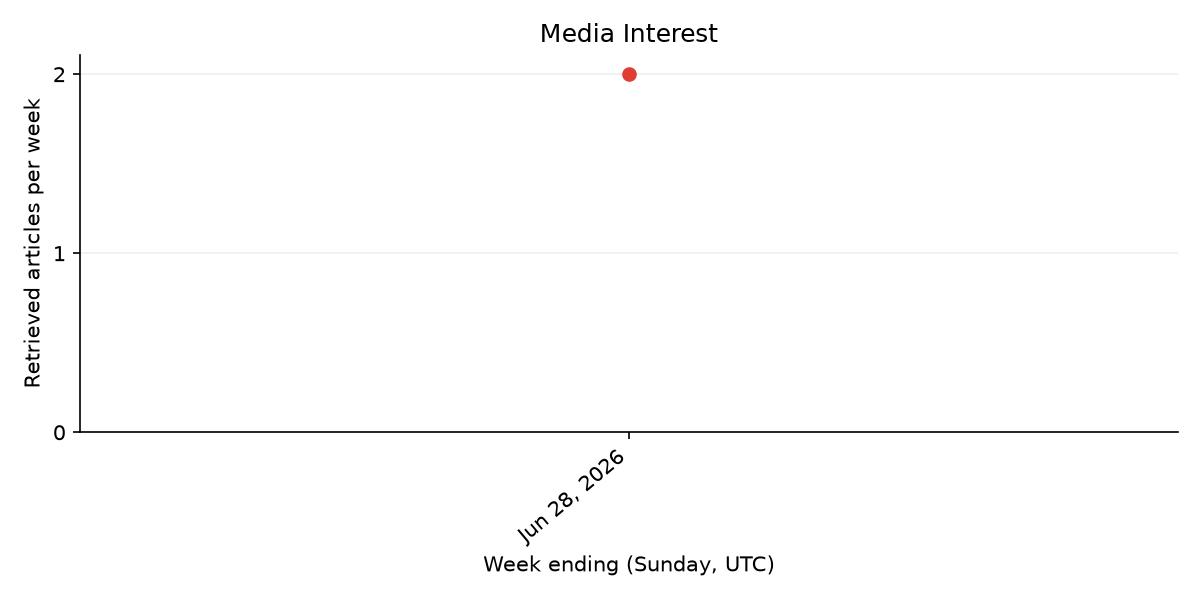
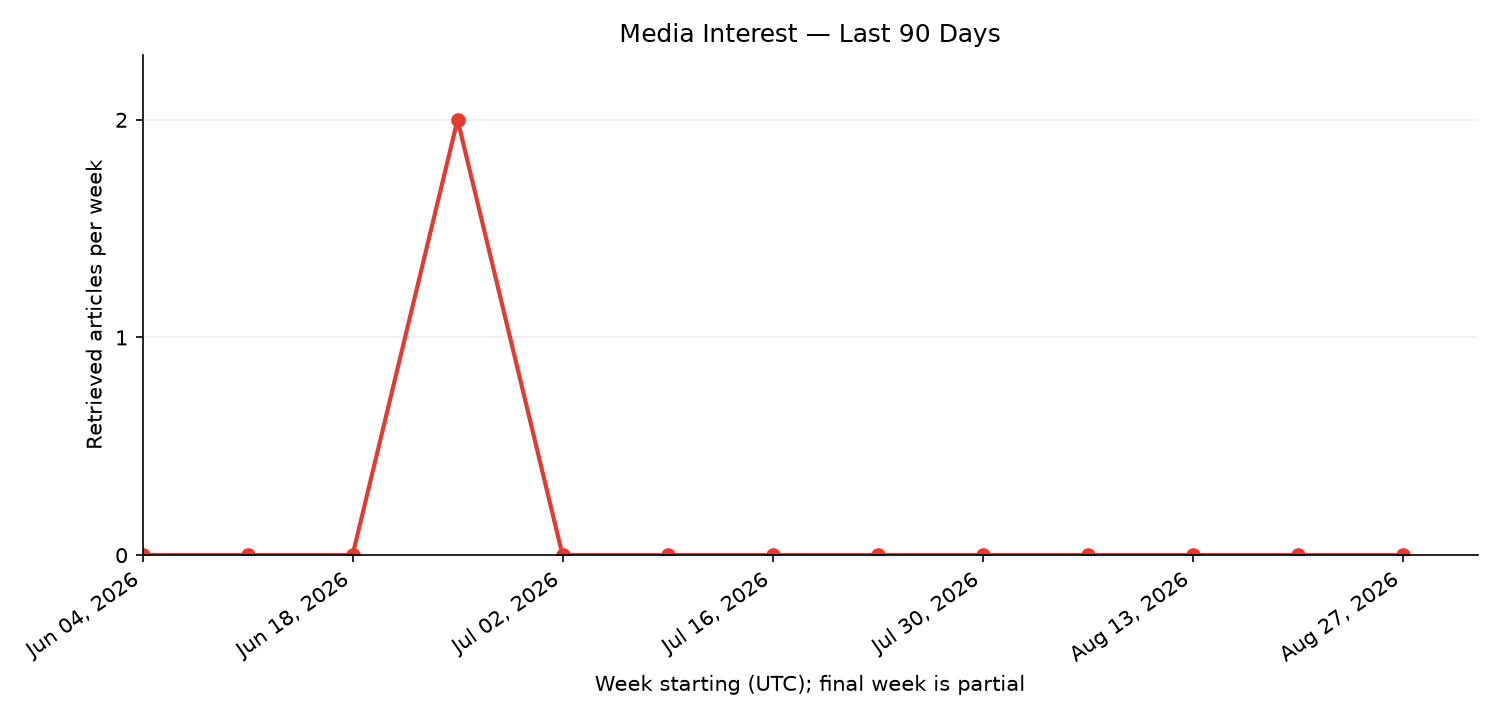
Automated daily update

diff --git a/index.html b/index.html
@@ -48,11 +48,11 @@
 </style>
 </head>
 <body>
-  <img src="park-photo.jpg" alt="The Golf Course on East Potomac Park during cherry blossom season" style="width:100%; max-height:320px; object-fit:cover; border-radius:8px; margin-bottom:6px;">
-  <p style="font-family: Arial, sans-serif; font-size: 0.72rem; color: #4A4A4A; margin: 0 0 28px;">Photo: National Park Service (public domain)</p>
+  <img src="park-photo.jpg" alt="Cherry blossoms lining the road at East Potomac Park" style="width:100%; max-height:320px; object-fit:cover; border-radius:8px; margin-bottom:6px;">
+  <p style="font-family: Arial, sans-serif; font-size: 0.72rem; color: #4A4A4A; margin: 0 0 28px;">Photo: NPS / NCR Photo Library (public domain)</p>
 
   <h1>East Potomac Park &mdash; Case Tracker</h1>
-  <p class="updated">Automatically updated daily. Last updated: September 01, 2026 at 20:40 UTC</p>
+  <p class="updated">Automatically updated daily. Last updated: September 01, 2026 at 20:53 UTC</p>
 
   <div style="display:flex; gap:10px; flex-wrap:wrap; font-family: Arial, sans-serif; margin-bottom: 24px;">
     <a href="write-to-congress.html" style="display:inline-block; background:#2C5F4F; color:#fff; text-decoration:none; padding:10px 18px; border-radius:4px; font-weight:bold;">
@@ -161,35 +161,35 @@
     <summary>Full Docket &mdash; DC Preservation League v. Department of Interior (1:26-cv-00477) (165 entries)</summary>
     <div class="table-scroll"><table>
       <tr><th>Date Filed</th><th>Entry #</th><th>Description</th></tr>
-      <tr><td>2026-08-31</td><td>nan</td><td></td></tr>
-<tr><td>2026-08-31</td><td>nan</td><td></td></tr>
+      <tr><td>2026-08-31</td><td>nan</td><td>nan</td></tr>
+<tr><td>2026-08-31</td><td>nan</td><td>nan</td></tr>
 <tr><td>2026-08-31</td><td>nan</td><td>MINUTE ORDER. In light of the parties&#x27; 66 Proposed Briefing Schedule, the Court ORDERS the parties to appear for a status conference on September 3, 2026, at 2:00 pm. If the parties are unable to attend at that time, they shall propose alternative times on September 3 or 4 for the Court&#x27;s consideration. Signed by Judge Ana C. Reyes on 8/31/2026. (lcacr3)</td></tr>
 <tr><td>2026-08-27</td><td>66.0</td><td>PROPOSED BRIEFING SCHEDULE (Joint Filing) by DC PRESERVATION LEAGUE, ALEX DICKSON, DAVE ROBERTS. (Bardwell, Will) (Entered: 08/27/2026)</td></tr>
 <tr><td>2026-08-21</td><td>nan</td><td>Set/Reset Deadlines/Hearings: Joint Proposed Briefing Schedule due by 8/27/2026. (zcdw)</td></tr>
-<tr><td>2026-08-21</td><td>nan</td><td></td></tr>
+<tr><td>2026-08-21</td><td>nan</td><td>nan</td></tr>
 <tr><td>2026-08-20</td><td>nan</td><td>MINUTE ORDER granting 65 Joint Motion for Extension of Time. The Court ORDERS the Parties to file their joint proposed briefing schedule on or before August 27, 2026. Signed by Judge Ana C. Reyes on 8/20/2026. (lcacr3)</td></tr>
 <tr><td>2026-08-20</td><td>65.0</td><td>Joint MOTION for Extension of Time to File Proposed Briefing Schedule by DC PRESERVATION LEAGUE, ALEX DICKSON, DAVE ROBERTS. (Attachments: # 1 Text of Proposed Order)(Samburg, Mark) (Entered: 08/20/2026)</td></tr>
-<tr><td>2026-08-20</td><td>nan</td><td></td></tr>
+<tr><td>2026-08-20</td><td>nan</td><td>nan</td></tr>
 <tr><td>2026-08-18</td><td>64.0</td><td>NOTICE of Intent to File Amended and Supplemental Complaint by DC PRESERVATION LEAGUE, ALEX DICKSON, DAVE ROBERTS (Bardwell, Will) (Entered: 08/18/2026)</td></tr>
 <tr><td>2026-08-14</td><td>nan</td><td>Set/Reset Deadlines/Hearings: Plaintiff&#x27;s Notice of Intent due by 8/18/2026. (zcdw)</td></tr>
-<tr><td>2026-08-14</td><td>nan</td><td></td></tr>
+<tr><td>2026-08-14</td><td>nan</td><td>nan</td></tr>
 <tr><td>2026-08-13</td><td>nan</td><td>MINUTE ORDER. Substantial developments have occurred since Plaintiffs filed their 1 Complaint and 8 Motion to Stay, and the Court finds that the operative complaint is outdated. As such, the pending 34 Motion to Dismiss addresses deficiencies that may not appear from an amended complaint. In the interest of judicial economy and efficient case management, Plaintiffs should consider whether to file an amended complaint. If they do not, and if the Court grants the pending 34 Motion to Dismiss, it will do so with prejudice. Plaintiffs shall advise the Court, on or before August 18, 2026, on whether they intend to amend their filings. If so, the Court ORDERS the parties to meet and confer and jointly file a proposed briefing schedule to govern further proceedings. The parties shall file their proposed briefing schedule on or before August 21, 2026. Signed by Judge Ana C. Reyes on 8/13/2026. (lcacr3)</td></tr>
-<tr><td>2026-08-13</td><td>nan</td><td></td></tr>
-<tr><td>2026-08-13</td><td>nan</td><td></td></tr>
-<tr><td>2026-08-10</td><td>nan</td><td></td></tr>
+<tr><td>2026-08-13</td><td>nan</td><td>nan</td></tr>
+<tr><td>2026-08-13</td><td>nan</td><td>nan</td></tr>
+<tr><td>2026-08-10</td><td>nan</td><td>nan</td></tr>
 <tr><td>2026-07-17</td><td>63.0</td><td>RESPONSE TO ORDER OF THE COURT Defendants&#x27; Response to the Court&#x27;s July 6, 2026, Minute Order by JESSICA BOWRON, DOUG BURGUM, DEPARTMENT OF INTERIOR, NATIONAL PARK SERVICE re Order,,,,, (Robertson, Michael) Modified event on 7/20/2026 (znmw). (Entered: 07/17/2026)</td></tr>
 <tr><td>2026-07-15</td><td>62.0</td><td>TRANSCRIPT OF PROCEEDINGS before Judge Ana C. Reyes held on 5/4/2026; Page Numbers: 1-50. Date of Issuance:7/15/2026. Court Reporter Christine T. Asif, Telephone number 202-354-3247, Transcripts may be ordered by submitting the Transcript Order FormFor the first 90 days after this filing date, the transcript may be viewed at the courthouse at a public terminal or purchased from the court reporter referenced above. After 90 days, the transcript may be accessed via PACER. Other transcript formats, (multi-page, condensed, CD or ASCII) may be purchased from the court reporter.NOTICE RE REDACTION OF TRANSCRIPTS: The parties have twenty-one days to file with the court and the court reporter any request to redact personal identifiers from this transcript. If no such requests are filed, the transcript will be made available to the public via PACER without redaction after 90 days. The policy, which includes the five personal identifiers specifically covered, is located on our website at www.dcd.uscourts.gov. Redaction Request due 8/5/2026. Redacted Transcript Deadline set for 8/15/2026. Release of Transcript Restriction set for 10/13/2026.(Asif, Christine) (Entered: 07/15/2026)</td></tr>
 <tr><td>2026-07-08</td><td>nan</td><td>Set/Reset Deadlines/Hearings: Response to Court&#x27;s Order due by 7/17/2026. (zcdw)</td></tr>
-<tr><td>2026-07-08</td><td>nan</td><td></td></tr>
+<tr><td>2026-07-08</td><td>nan</td><td>nan</td></tr>
 <tr><td>2026-07-08</td><td>60.0</td><td>TRANSCRIPT OF MOTION HEARING before Judge Ana C. Reyes held on July 2, 2026; Page Numbers: 1-130. Court Reporter Sonja L. Reeves, RDR, CRR, Telephone number (202) 354-3246, Transcripts may be ordered by submitting the Transcript Order FormFor the first 90 days after this filing date, the transcript may be viewed at the courthouse at a public terminal or purchased from the court reporter referenced above. After 90 days, the transcript may be accessed via PACER. Other transcript formats, (multi-page, condensed, CD or ASCII) may be purchased from the court reporter.NOTICE RE REDACTION OF TRANSCRIPTS: The parties have twenty-one days to file with the court and the court reporter any request to redact personal identifiers from this transcript. If no such requests are filed, the transcript will be made available to the public via PACER without redaction after 90 days. The policy, which includes the five personal identifiers specifically covered, is located on our website at www.dcd.uscourts.gov. Redaction Request due 7/29/2026. Redacted Transcript Deadline set for 8/8/2026. Release of Transcript Restriction set for 10/6/2026.(Reeves, Sonja) (Entered: 07/08/2026)</td></tr>
-<tr><td>2026-07-06</td><td>nan</td><td></td></tr>
-<tr><td>2026-07-06</td><td>nan</td><td></td></tr>
+<tr><td>2026-07-06</td><td>nan</td><td>nan</td></tr>
+<tr><td>2026-07-06</td><td>nan</td><td>nan</td></tr>
 <tr><td>2026-07-06</td><td>nan</td><td>MINUTE ORDER. As discussed during last week&#x27;s motion hearing, the Court ORDERS the Government to respond to the following questions on or before July 17, 2026. 1. Has the Secretary of the Interior or any other high-ranking official made any statements or given any directives to anyone at the Agency--oral or written--concerning the President&#x27;s statement that they will begin &quot;build[ing] one of the Greatest Golf Courses in the world&quot; by September 1, 2026? Donald J. Trump, Truth Social (June 28, 2026, 2:42 PM), https://truthsocial.com/@realDonaldTrump/posts/116829203090822692; 2. On what date did Clark Construction conduct testing on the excavated soil, and when did NPS receive the results? See Dkt. 38-1 at 2-3 (Nersesian Decl.); 3. Which individuals from the Agency accompanied President Trump during the site visit?; and 4. Who created the conceptual renderings reviewed at that visit, and who currently possesses or maintains those renderings? Lastly, the Court ORDERS the parties to meet and confer regarding proposed language for an interim preservation protocol governing activities at the site pending Court action. Signed by Judge Ana C. Reyes on 7/6/2026. (lcacr3)</td></tr>
-<tr><td>2026-07-02</td><td>nan</td><td></td></tr>
+<tr><td>2026-07-02</td><td>nan</td><td>nan</td></tr>
 <tr><td>2026-07-02</td><td>nan</td><td>Minute Entry for proceedings held before Judge Ana C. Reyes: Motion Hearing held on 7/2/2026 re 8 Motion to Stay or in the alternative Motion for Preliminary Injunction and 34 Motion to Dismiss for Lack of Jurisdiction and for Failure to State a Claim. Motions heard and taken under advisement. (Court Reporter: Sonja Reeves) (zcdw) Modified on 8/10/2026 to correct hearing date (zcdw).</td></tr>
 <tr><td>2026-07-01</td><td>nan</td><td>MINUTE ORDER. In preparation for tomorrow&#x27;s motion hearing, the Court ORDERS the Government to be prepared to discuss: (1) Whether anyone at the National Garden of American Heroes Foundation or the O&#x27;Rourke Group has communicated with the National Park Service or the Department of the Interior regarding the proposed golf course and, if so, the nature and substance of those communications; (2) What commitments, if any, the Secretary of Interior or his delegates have made concerning President Trump&#x27;s statements that they &quot;will build one of the Greatest Golf Courses in the world.&quot; Donald J. Trump, Truth Social (June 28, 2026, 2:42 PM), https://truthsocial.com/@realDonaldTrump/posts/116829203090822692; (3) How the Government intends to undertake the actions listed in its Motion to Dismiss--including &quot;contract for architectural and design services&quot; and &quot;compliance with NEPA, Section 106, Section 7 of the Endangered Species Act, the Organic Act, and any other applicable laws and regulations&quot;--by September 1, 2026. Dkt. [34-1] at 24; see Trump, supra; (4) On what basis Mr. Fazio has been appointed or designated as the architect or designer of the proposed golf course. See Trump, supra; (5) Whether NPS or the Department of the Interior has entered into any contract or agreement--oral or written--with respect to the construction of the proposed golf course by September 1, 2026; and (6) Whether any blueprints, plans, or conceptual designs for the proposed golf course exist and, if so, the current status of their review or approval. Signed by Judge Ana C. Reyes on 7/1/2026. (lcacr3)</td></tr>
-<tr><td>2026-07-01</td><td>nan</td><td></td></tr>
-<tr><td>2026-07-01</td><td>nan</td><td></td></tr>
+<tr><td>2026-07-01</td><td>nan</td><td>nan</td></tr>
+<tr><td>2026-07-01</td><td>nan</td><td>nan</td></tr>
 <tr><td>2026-06-30</td><td>nan</td><td>MINUTE ORDER granting 59 The Walter J. Travis Society&#x27;s Unopposed Motion for Leave to File Amicus Brief. Signed by Judge Ana C. Reyes on 6/30/2026. (lcacr3)</td></tr>
 
     </table></div>
@@ -201,11 +201,13 @@
   <details class="section" open>
     <summary>Media Interest <span class="toggle-label" aria-hidden="true"></span></summary>
     <div>
-      <img src="media_coverage_over_time.png" alt="Weekly coverage volume chart">
+      <p style="font-family:Arial,sans-serif;">Jun 04, 2026 – Sep 01, 2026</p><img src="media_coverage_over_time.png" alt="Line graph of weekly retrieved article counts over the last 90 days">
       <p style="font-family:Arial,sans-serif; font-size:0.9rem; color:#4A4A4A;">
-        Each point counts retrieved articles observed by GDELT during the week ending on the
-        displayed Sunday (UTC). Dates are observation dates, not necessarily publication dates.
-        The first and last weeks may be partial. Counts reflect the retrieved sample
+        The window moves forward each day and always covers the last 90 days.
+        Each point counts retrieved articles observed by GDELT in the seven days beginning
+        on that date (UTC); the final week is partial. Dates are observation dates, not
+        necessarily publication dates. Zero means no articles in the retrieved data for
+        that week, not necessarily no coverage. Counts reflect the retrieved sample
         (up to 250 articles), not all news coverage or audience engagement.
       </p>
     </div>
